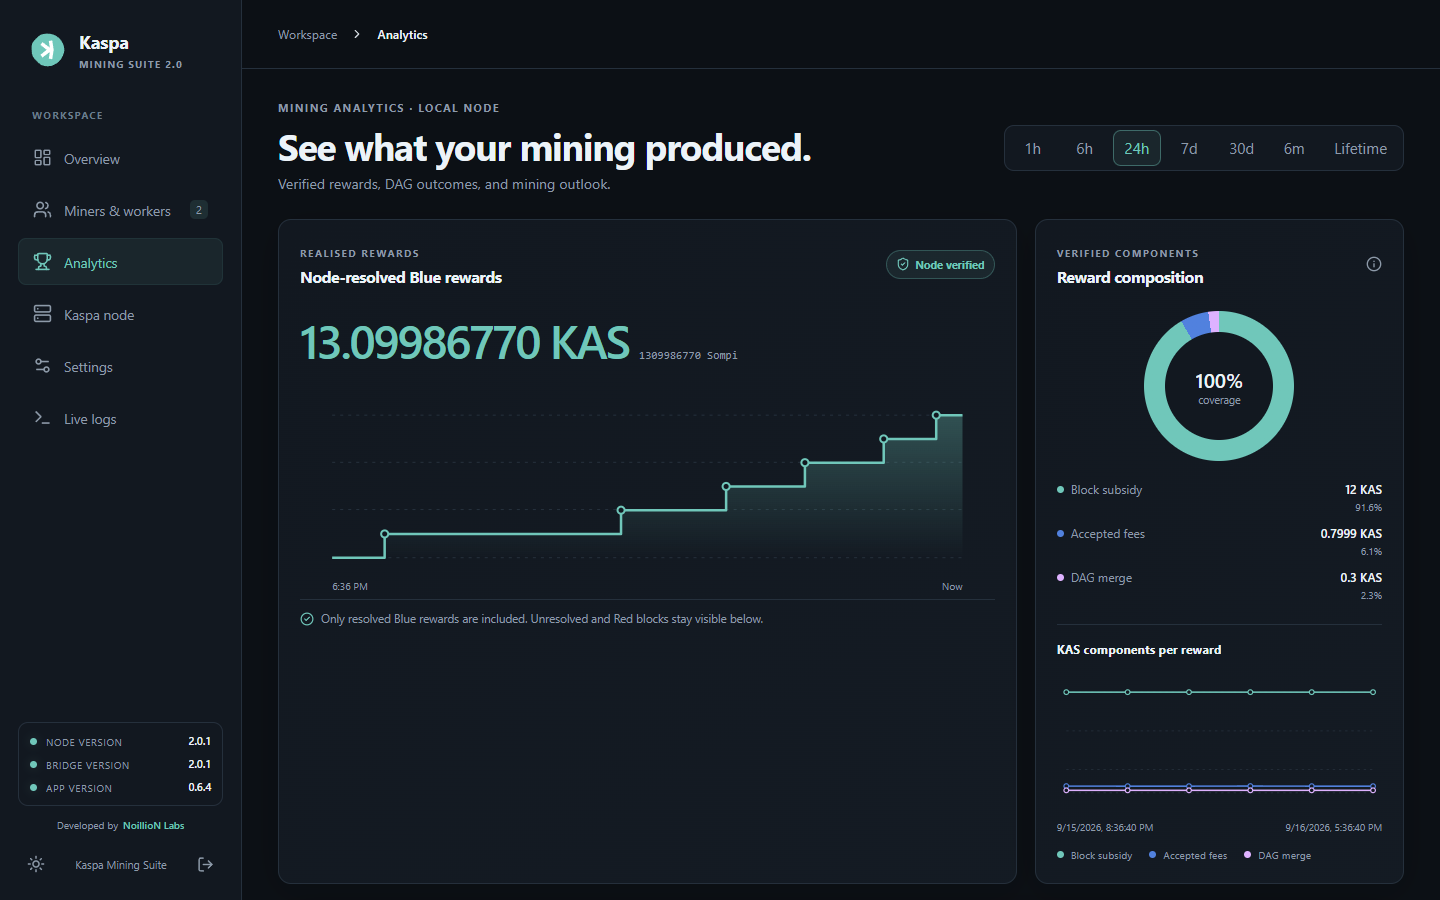
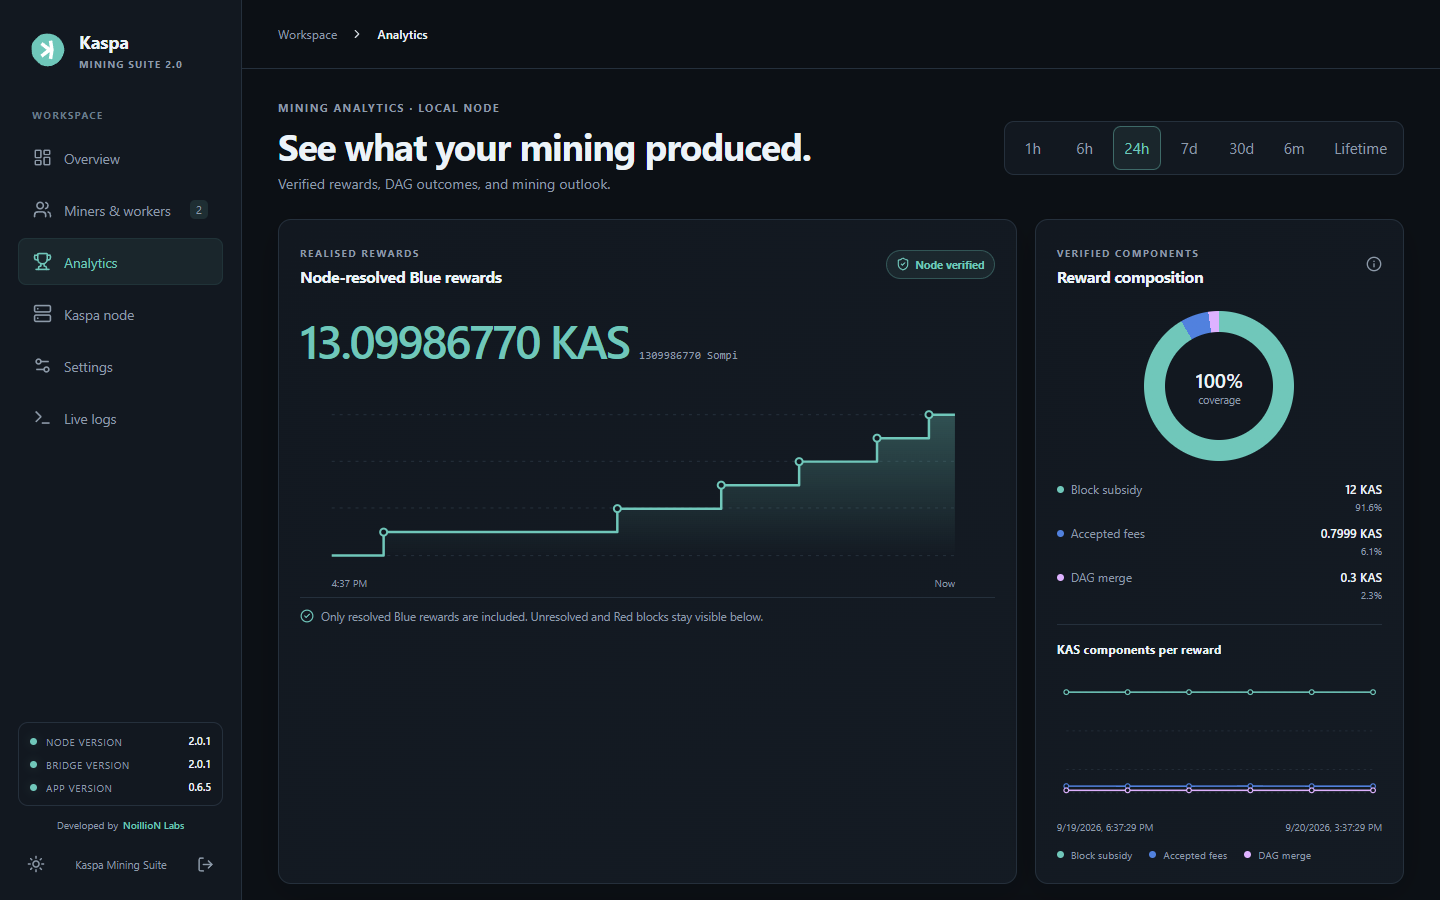
Publish Kaspa Mining Suite 2.0 version 0.6.5

Changed region(s): [[0.2188, 0.56, 0.5312, 0.7156], [0.5, 0.4667, 0.6875, 0.56], [0.75, 0.1244, 0.8125, 0.1556]]

diff --git a/README.md b/README.md
@@ -42,7 +42,7 @@ approved runtime-file allowlist from the two package source repositories.
 
 ## Kaspa Mining Suite 2.0 — current release
 
-Version **0.6.4** improves Analytics colours and light-theme readability. It does not change mining behaviour, stored data or network ports. The suite uses UI **5560**, miner Stratum **5556**, and Kaspa P2P **16111 → 16111**.
+Version **0.6.5** improves mobile use on iPhone and other touch devices. Analytics now stays within the screen at normal zoom, controls have reliable touch areas, and navigation and block-celebration controls respond to one tap. The celebration also includes a **Disable future pop-ups** option linked to the same preference in Settings. Application version reporting now comes directly from the packaged release and is checked before publication. Mining behaviour, stored data and network ports are unchanged. The suite uses UI **5560**, miner Stratum **5556**, and Kaspa P2P **16111 → 16111**.
 
 If upgrading from 0.6.2 or earlier, update every miner pool address to the Umbrel device on TCP **5556**. Before upgrading, stop any other app or service using TCP **16111**. The former **16121** P2P offset and **55556** Stratum port were temporary side-by-side testing allocations.
 
